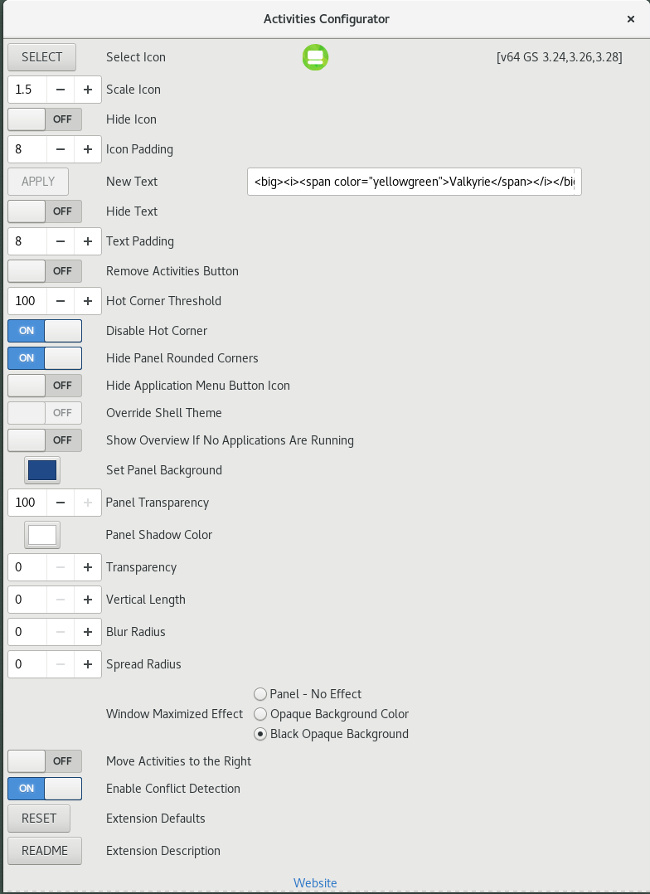
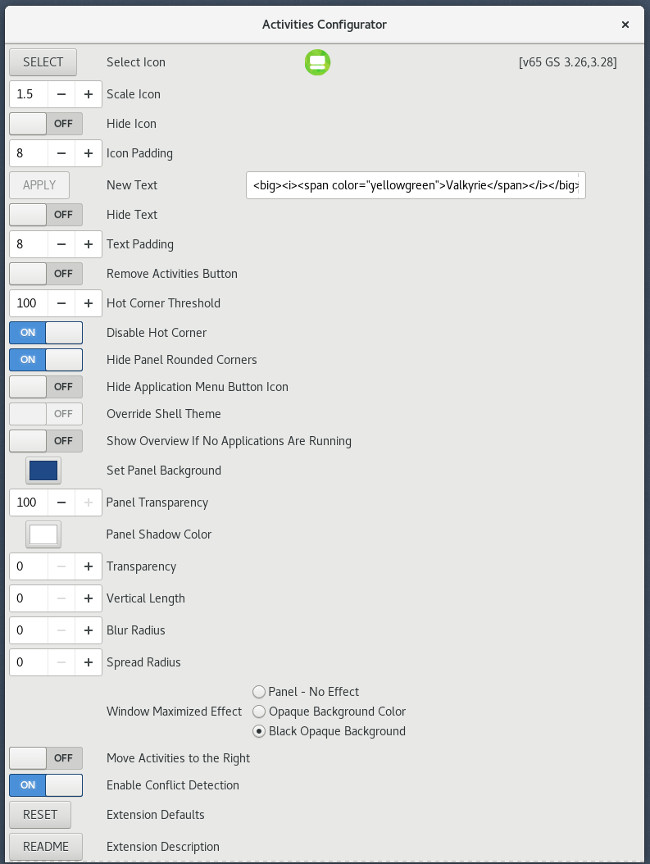
Updated for Activities Configurator version 65

Changed region(s): [[0.0, 0.0, 1.0, 1.0], [0.3692, 0.1875, 0.8923, 0.25], [0.4615, 0.9688, 0.5231, 1.0]]

diff --git a/latestupdate.html b/latestupdate.html
@@ -17,7 +17,12 @@ Install Activities Configurator from the Gnome Shell Extension Website
 <a href="./activities_config_zip.html" target="Right">
 Download the zip-file for the Activities Configurator extension from the Gnome Shell Extension Website.
 </a>
-<h4>Latest Update Version 64 GS 3.24 3.26 3.28</h4>
+<h4>Latest Update Version 65 GS 3.26 3.28</h4>
+<p>
+Removed line 15 of prefs.js, "const Colors = Me.imports.colors;". Reported by jessedubord.  Ubuntu 18.04 beta 2, Gnome 3.28. Github issue #34 nls1729/acme-code. "There was an error loading the preferences dialog for Activities Configurator:" "Error: Requiring Clutter ..."
+The import was no longer needed. In 2013 (version 16) functions provided by the import were replaced with a different set of functions.  The import should have been removed then.
+</p>
+<h4>Update Version 64 GS 3.24 3.26 3.28</h4>
 <p>
 Added Gnome Shell version 3.28 to meta data.
 </p>

diff --git a/activities_config_zip.html b/activities_config_zip.html
@@ -26,6 +26,11 @@
 <td>&nbsp&nbsp&nbsp</td>
 <td><h3>Gnome Shell Version(s)</h3></td>
 </tr>
+
+<tr>
+<td><a href="https://extensions.gnome.org/review/download/8060.shell-extension.zip">v65</a></td><td>&nbsp&nbsp&nbsp</td>
+<td><strong>3.26 3.28</strong></td>
+</tr>
 <tr>
 <td><a href="https://extensions.gnome.org/review/download/8058.shell-extension.zip">v64</a></td><td>&nbsp&nbsp&nbsp</td>
 <td><strong>3.24 3.26 3.28</strong></td>
